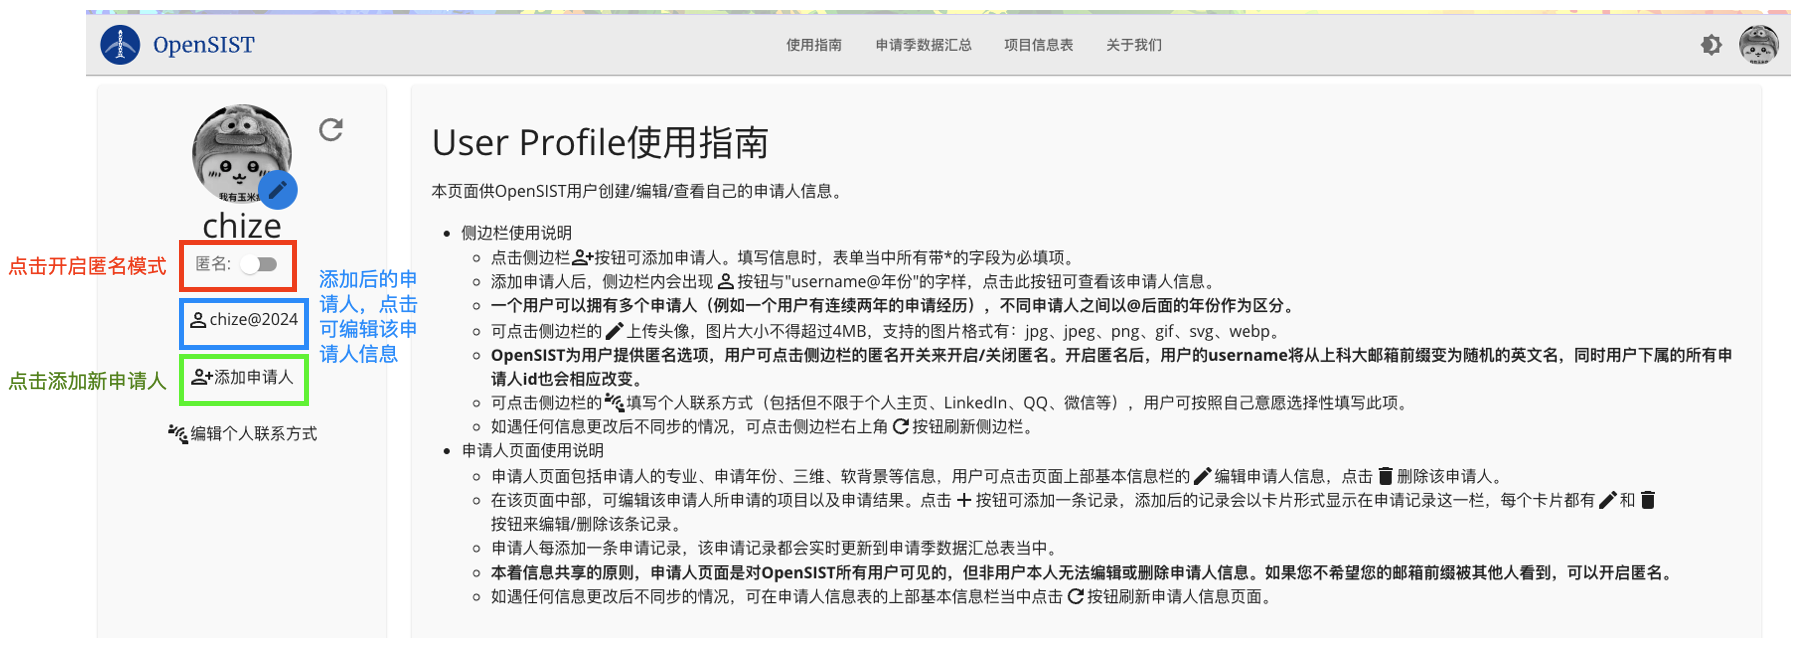
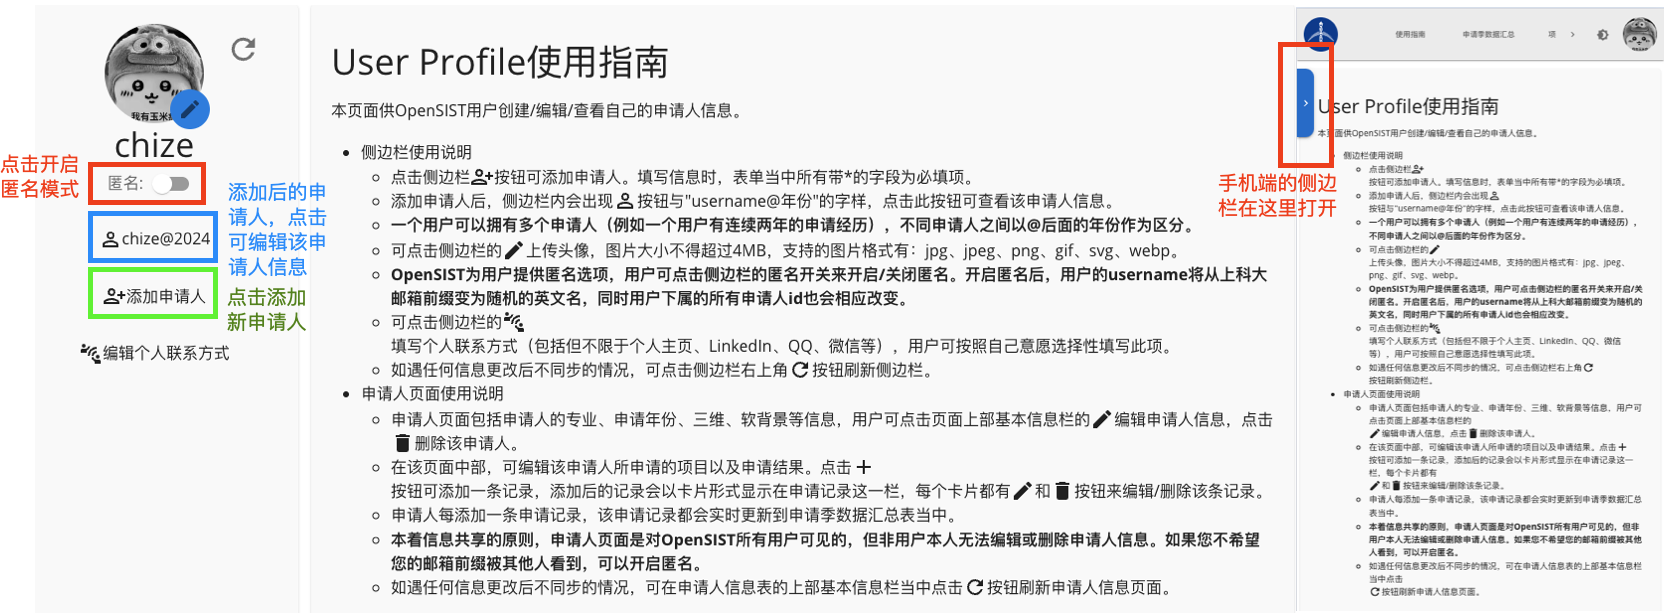
Add more user guide and adjust mobile font size

Changed region(s): [[0.0, 0.0, 0.9988, 0.987]]

diff --git a/src/Components/HowToUse/HowToUse.jsx b/src/Components/HowToUse/HowToUse.jsx
@@ -1,37 +1,17 @@
-import {Accordion, AccordionDetails, AccordionSummary, Typography} from "@mui/material";
+import {Accordion, AccordionDetails, AccordionSummary} from "@mui/material";
 import ArrowDropDownIcon from "@mui/icons-material/ArrowDropDown";
-import {InlineTypography} from "../common";
-import {FilterAltOff, OpenInFull, Refresh} from "@mui/icons-material";
 import React from "react";
 import profile from "../../Assets/imgs/profile.png";
 import applicant from "../../Assets/imgs/applicant.png";
 import newApplicant from "../../Assets/imgs/new-applicant.png";
 import record from "../../Assets/imgs/record.png";
 import program from "../../Assets/imgs/program.png";
-
 export function HowToUse() {
     return (
-        <div style={{width: '80%'}}>
+        <div style={{width: '90%'}}>
             <h1 style={{textAlign: 'center'}}>OpenSIST使用指南</h1>
-            <h3>在您使用OpenSIST之前，请仔细阅读本页，了解OpenSIST基本的运作逻辑。</h3>
             <Graduated/>
             <Current/>
-            {/*<h3>OpenSIST包含以下功能：</h3>*/}
-            {/*<ul>*/}
-            {/*    <li>查看信息学院往年申请数据</li>*/}
-            {/*    <li>添加/查看海外高校硕博项目简介</li>*/}
-            {/*    <li>创建自己的申请人、编辑申请人信息、添加/修改/删除申请人信息下的申请记录（仅对参加过海外申请的同学而言）</li>*/}
-            {/*    <li>开启/关闭用户匿名功能，以保障用户的个人隐私权</li>*/}
-            {/*</ul>*/}
-            {/*<h3>查看信息学院往年申请数据</h3>*/}
-            {/*<p>点击顶部导航栏的“申请季数据汇总”按钮，即可前往申请数据一览表。使用前请先阅读表格顶部的使用指南。</p>*/}
-            {/*<h3>添加/查看海外高校硕博项目简介</h3>*/}
-            {/*<p>点击顶部导航栏的“项目信息表”按钮，即可前往查看各个项目。使用前请先阅读该页面的使用指南。</p>*/}
-            {/*<h3><b>申请人、申请记录的添加与编辑</b></h3>*/}
-            {/*<p>*/}
-            {/*    每个OpenSIST用户都可以拥有自己的申请人与申请记录。<b>点击右上角头像，在下拉菜单当中点击“Profile”按钮即可前往个人信息页面。</b>*/}
-            {/*    使用该功能之前，<b>请务必阅读该页面的使用指南。</b>*/}
-            {/*</p>*/}
         </div>
     )
 }
@@ -42,7 +22,7 @@ function Graduated() {
             <AccordionSummary
                 expandIcon={<ArrowDropDownIcon/>}
             >
-                <h3 style={{margin: 0}}><b>上科大毕业生或大四、研三同学请阅读：</b></h3>
+                <h3 style={{margin: 0}}><b>毕业生或毕业年级请阅读：</b></h3>
             </AccordionSummary>
             <AccordionDetails>
                 <h4><b>我来这个网站应该干啥？</b></h4>
@@ -61,7 +41,7 @@ function Graduated() {
                 <h4><b>上面说的这三件事该咋做啊？</b></h4>
                 <h5><b>申请人信息和申请记录的添加和修改：</b></h5>
                 <ol style={{paddingLeft: '1rem'}}>
-                    <li>点击右上角头像，在下拉菜单中选择Profile栏。</li>
+                    <li>点击右上角头像，在下拉菜单中选择Profile。</li>
                     <li>
                         在Profile页面，下图介绍了该页面的一些按钮功能，你也可以阅读页面右侧使用指南来获取更详细的信息。
                         <img src={profile} alt='profile' width='100%'/>
@@ -93,27 +73,10 @@ function Current() {
             <AccordionSummary
                 expandIcon={<ArrowDropDownIcon/>}
             >
-                <h3><b>上科大非毕业年级本硕同学请阅读：</b></h3>
+                <h3 style={{margin: 0}}><b>非毕业年级本硕同学请阅读：</b></h3>
             </AccordionSummary>
             <AccordionDetails>
-                <ol>
-                    <li>
-                        <InlineTypography>
-                            对于<b>申请人</b>和<b>申请项目</b>这两列，可点击单元格右侧<OpenInFull sx={{fontSize: "1rem"}}/>按钮查看申请人或项目的详细信息。
-                        </InlineTypography>
-                    </li>
-                    <li>本页面为只读模式，想要编辑自己的申请人信息或添加/删除/修改所申请的项目，请点击右上角头像下拉菜单中Profile页面编辑相应信息。</li>
-                    <li>
-                        <InlineTypography>
-                            可通过表格上部的filter来进行关键信息筛选。可点击左上角<FilterAltOff/>按钮重置所有筛选。
-                        </InlineTypography>
-                    </li>
-                    <li>
-                        <InlineTypography>
-                            表格会每十分钟自动从服务器获取一次最新数据，您也可以可点击左上角<Refresh/>按钮手动获取。
-                        </InlineTypography>
-                    </li>
-                </ol>
+                先别看，还没做完
             </AccordionDetails>
         </Accordion>
     )

diff --git a/src/index.css b/src/index.css
@@ -29,7 +29,7 @@ body,html {
     --scrollbar-color: #fff;
     --bg-color: #fff;
     user-select: none;
-    font-size: clamp(10px, 1.5vw, 16px);
+    font-size: clamp(14px, 1.5vw, 16px);
     background-color: var(--bg-color);
 }
 
